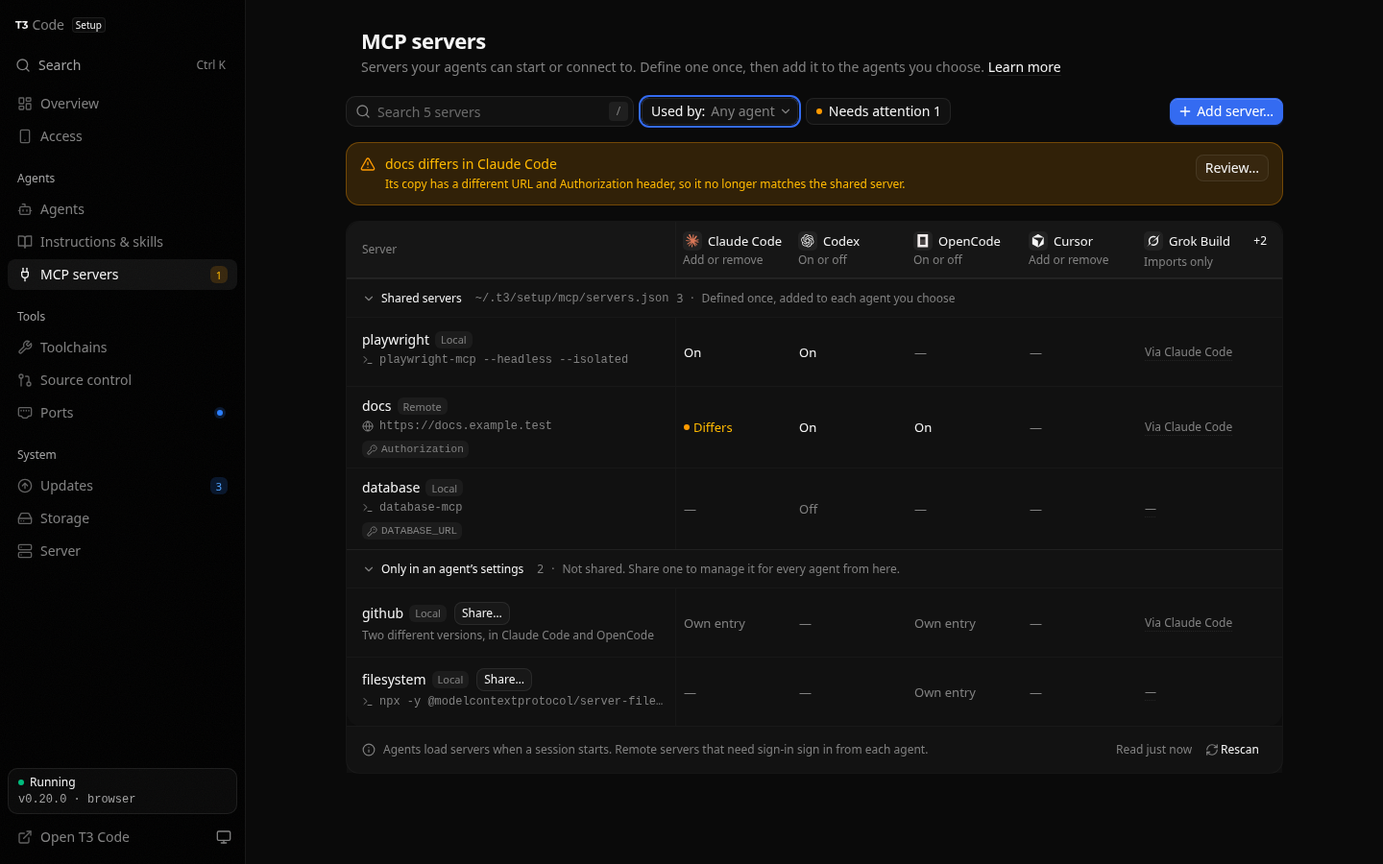
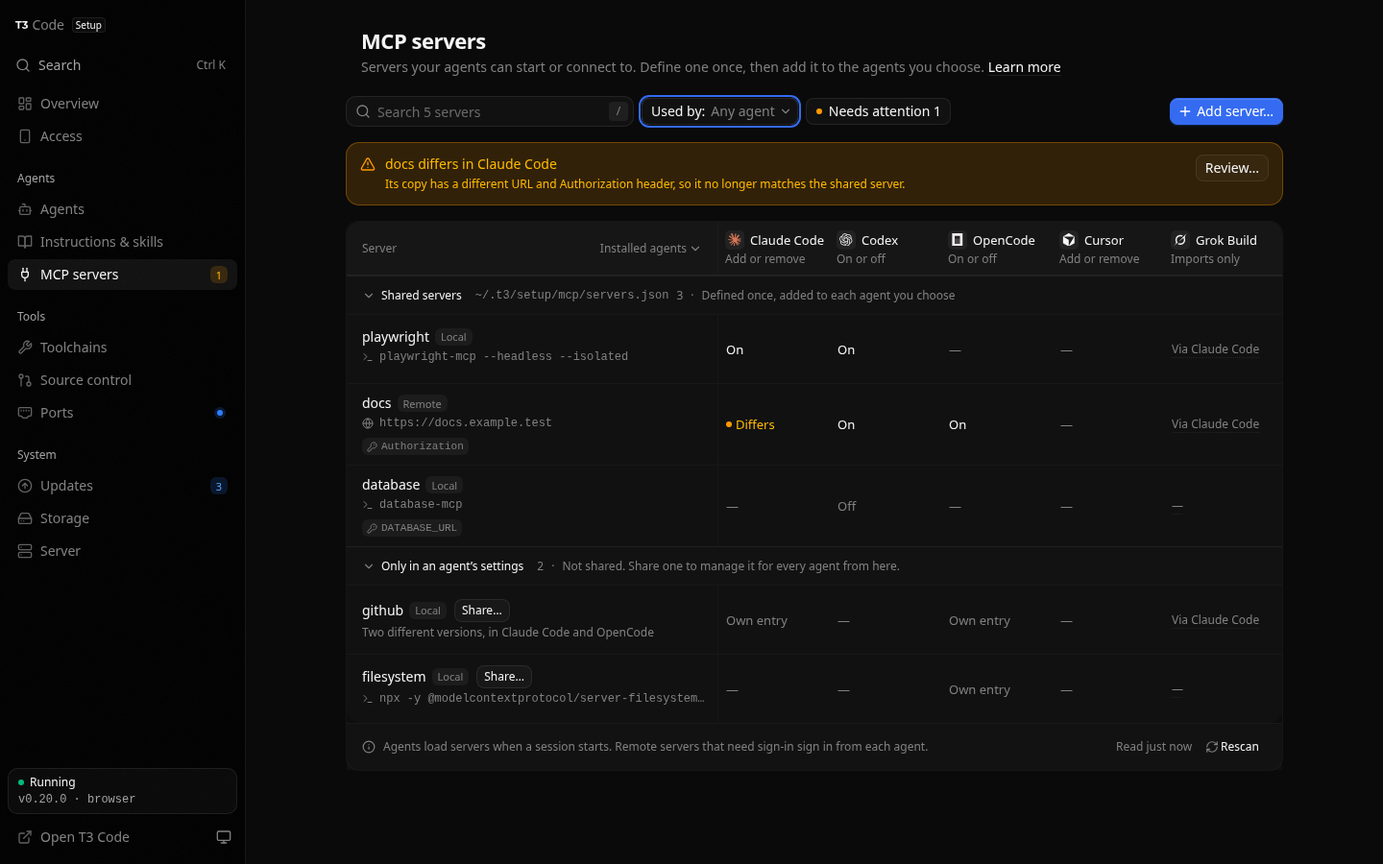
fix(mcp): align agent columns with Skills

diff --git a/docker/setup/client/mcp.js b/docker/setup/client/mcp.js
@@ -6,12 +6,13 @@ const T3McpUI = (() => {
   const disabled = value => value ? raw(' disabled') : '';
   const mark = id => html`<span class="tc-tile tc-tile--mark tc-tile--xs" aria-hidden="true">${raw(T3C.agentMark(id))}</span>`;
   const create = ({ api, getStatus, render }) => {
-    let data = null, query = '', agent = '', needsAttention = false, error = null, started = false, scanning = false, epoch = 0, scan = null, markup = null;
+    let data = null, query = '', agent = '', needsAttention = false, showAll = false, error = null, started = false, scanning = false, epoch = 0, scan = null, markup = null;
     const mutationErrors = new Map(), undos = new Map();
     const changing = new Map(), collapsed = new Set(), differences = new Map();
     const installed = () => S.providers.filter(p => getStatus()?.harnesses?.some(h => h.id === p.id && h.installed)).map(p => p.id);
     const managed = () => S.providers.filter(p => p.managed && installed().includes(p.id));
-    const columns = () => S.providers.filter(p => installed().includes(p.id) && (p.managed || p.id === 'grok' && data?.providers?.find(row => row.provider === 'grok')?.imports?.length));
+    const columns = () => S.columns(installed(), showAll);
+    const columnNote = provider => !provider.managed && provider.id !== 'grok' ? provider.control : installed().includes(provider.id) ? provider.control : 'Not installed';
     const rows = () => S.rows(data);
     const library = () => ({ data, installed: installed(), managed: managed(), changing, home: getStatus()?.paths?.volume });
     const pathLabel = value => T3SkillModel.displayPath(value || '', library().home);
@@ -95,6 +96,7 @@ const T3McpUI = (() => {
       const state = S.state(data, row, provider.id), busy = changing.has(provider.id), pending = changing.get(provider.id) === row.name;
       const label = row.name + ' in ' + provider.name + ': ' + state.label.toLowerCase();
       const key = 'mcp-cell-' + row.key + ':' + provider.id;
+      if (provider.managed && !installed().includes(provider.id)) return html`<span class="tc-cell tc-cell--unsupported" title="${provider.name} isn’t installed. Its saved settings stay unchanged." aria-label="${label}. Agent not installed; saved settings are read-only.">${state.label}</span>`;
       if (pending) return html`<span class="tc-cell" role="status"><span class="tc-spinner" aria-hidden="true"></span><span class="tc-sr">Saving ${row.name} in ${provider.name}</span></span>`;
       if (['via', 'own', 'error', 'unsupported'].includes(state.kind)) return html`<span class="tc-cell tc-cell--${state.kind}" title="${state.kind === 'via' ? 'Grok Build may import ' + S.nameOf(state.source || 'claude') + '’s servers. It isn’t managed here and doesn’t report what it loads.' : state.reason || ''}"><span>${state.label}</span></span>`;
       if (state.kind === 'none') return html`<button class="tc-cell tc-cell--none" type="button" data-key="${key}" data-cmd="${row.shared ? 'mcp.link' : 'mcp.share'}" data-provider="${provider.id}" data-id="${row.name}" aria-label="${row.shared ? 'Add' : 'Share'} ${row.name} ${row.shared ? 'to' : 'with'} ${provider.name}"${disabled(busy || !row.shared && !row.recognized || data.shared.error)}><span class="tc-cell-dash">—</span><span class="tc-cell-add">${icon('plus')}Add</span></button>`;
@@ -102,8 +104,8 @@ const T3McpUI = (() => {
     };
     const groupLabel = shared => shared ? 'Shared servers' : 'Only in an agent’s settings';
     const footer = () => html`<div class="tc-sk-library-foot"><span>${icon('info', 'tc-icon--sm')}Agents load servers when a session starts. Remote servers that need sign-in sign in from each agent.</span><span class="tc-sk-scan-time" title="${M.absTime(data?.scannedAt)}">${data?.scannedAt ? 'Read ' + M.relTime(data.scannedAt, Date.now()) : ''}</span><button class="tc-btn tc-btn--ghost tc-btn--xs" type="button" data-cmd="mcp.refresh"${disabled(scanning || changing.size)}>${scanning ? html`<span class="tc-spinner"></span>Scanning` : html`${icon('refresh-cw')}Rescan`}</button></div>`;
-    const table = filtered => html`<div class="tc-group tc-sk-table tc-mcp-table"><div class="tc-mx-scroll" tabindex="0" aria-label="MCP servers by agent"><div class="tc-mx" role="table" aria-label="MCP servers and agent settings" data-no-agents="${String(!columns().length)}" style="--mx-agent-count:${columns().length};--mx-main-count:${Math.max(0, columns().length - 1)}">
-      <div class="tc-mx-head" role="row"><div class="tc-mx-head-label" role="columnheader">Server</div>${columns().map((provider, index) => html`<div class="tc-mx-agent" role="columnheader" data-key="mcp-head-${provider.id}"><span class="tc-mx-agent-name">${mark(provider.id)}${provider.name}${data.providers.find(p => p.provider === provider.id)?.supported && data.providers.find(p => p.provider === provider.id)?.error ? html`<span class="tc-dot tc-dot--warn" aria-label="Settings unreadable"></span>` : ''}${index === columns().length - 1 ? html`<button class="tc-btn tc-btn--ghost tc-btn--xs tc-mcp-extra" type="button" data-key="mcp-extra" data-cmd="mcp.columns" aria-label="Other agents: Muse Code and Antigravity" title="Muse Code and Antigravity aren’t managed here yet" aria-haspopup="menu">+2</button>` : ''}</span><span class="tc-mx-agent-kind">${provider.control}</span></div>`)}</div>
+    const table = filtered => html`<div class="tc-group tc-sk-table tc-mcp-table"><div class="tc-mx-scroll" tabindex="0" aria-label="MCP servers by agent"><div class="tc-mx" role="table" aria-label="MCP servers and agent settings" data-no-agents="${String(!columns().length)}" style="--mx-agent-count:${columns().length}">
+      <div class="tc-mx-head" role="row"><div class="tc-mx-head-label" role="columnheader"><span>Server</span>${installed().length < S.providers.length ? html`<button class="tc-btn tc-btn--ghost tc-btn--xs tc-mx-columns" type="button" data-key="mcp-columns" data-cmd="mcp.columns" aria-haspopup="menu" aria-label="Agent columns: ${showAll ? 'all agents' : 'installed agents'}">${showAll ? 'All agents' : 'Installed agents'}${icon('chevron-down', 'tc-chev')}</button>` : ''}</div>${columns().map(provider => html`<div class="tc-mx-agent" role="columnheader" data-key="mcp-head-${provider.id}"${!installed().includes(provider.id) ? raw(' data-uninstalled') : ''}><span class="tc-mx-agent-name">${mark(provider.id)}${provider.name}${data.providers.find(p => p.provider === provider.id)?.supported && data.providers.find(p => p.provider === provider.id)?.error ? html`<span class="tc-dot tc-dot--warn" aria-label="Settings unreadable"></span>` : ''}</span><span class="tc-mx-agent-kind">${columnNote(provider)}</span></div>`)}</div>
       ${[true, false].map(shared => { const group = filtered.filter(row => row.shared === shared); if (!group.length) return ''; return html`<div role="rowgroup" data-key="mcp-group-${shared}"><div role="row"><div class="tc-mx-group" role="cell" aria-colspan="${columns().length + 1}"><button class="tc-mx-group-toggle" type="button" data-cmd="mcp.group" data-id="${String(shared)}" aria-expanded="${String(!collapsed.has(shared))}">${icon(collapsed.has(shared) ? 'chevron-right' : 'chevron-down')}${groupLabel(shared)}</button>${shared ? html`<code title="${data.shared.path || ''}">${pathLabel(data.shared.path || '~/.t3/setup/mcp/servers.json')}</code>` : ''}<span>${group.length}</span><span>·</span><span class="tc-mx-readers">${shared ? 'Defined once, added to each agent you choose' : 'Not shared. Share one to manage it for every agent from here.'}</span></div></div>
       ${collapsed.has(shared) ? '' : group.map(row => html`<div class="tc-mx-row" role="row" data-key="mcp-${row.key}"><div class="tc-mx-skill" role="cell"><div class="tc-mx-skill-copy"><div class="tc-mx-name"><button class="tc-skill-name" type="button" data-key="mcp-name-${row.key}" data-cmd="${shared ? 'mcp.view' : 'mcp.share'}" data-id="${row.name}"${disabled(!shared && (!row.recognized || data.shared.error))}>${row.name}</button>${row.type ? html`<span class="tc-badge">${row.type === 'remote' ? 'Remote' : 'Local'}</span>` : ''}${!shared ? html`<button class="tc-btn tc-btn--xs" type="button" data-cmd="mcp.share" data-id="${row.name}" title="${row.recognized ? 'Manage this server for your other agents' : 'This entry’s format isn’t supported here.'}"${disabled(!row.recognized || data.shared.error)}>Share…</button>` : ''}</div><div class="tc-mcp-detail${!row.shared && !row.identical ? ' tc-mcp-detail--prose' : ''}" title="${detail(row)}">${row.shared || row.identical ? icon(row.type === 'remote' ? 'globe' : 'terminal') : ''}<span>${detail(row) || 'Unsupported native entry'}</span></div>${row.shared || row.identical ? keyChips(row) : ''}</div></div>${columns().map(provider => html`<div class="tc-cellwrap" role="cell" data-key="mcp-${row.key}-${provider.id}">${cell(row, provider)}</div>`)}</div>`)}</div>`; })}
       </div></div>${footer()}</div>`;
@@ -114,7 +116,7 @@ const T3McpUI = (() => {
     const body = () => {
       const all = rows(), filtered = S.filter(data, { query, agent, attention: needsAttention, installed: installed() }), attention = S.attention(data, installed());
       return html`<div class="tc-sk-toolbar"><label class="tc-sk-search">${icon('search')}<input class="tc-input" id="mcp-search" data-key="mcp-search" value="${query}" type="search" placeholder="Search ${all.length} servers" aria-label="Search MCP servers"><kbd class="tc-kbd">/</kbd></label><div class="tc-sk-desktop-filters"><button class="tc-btn tc-btn--sm" type="button" data-cmd="mcp.agent" aria-haspopup="menu">Used by: <span class="tc-btn-value">${agent ? S.nameOf(agent) : 'Any agent'}</span>${icon('chevron-down', 'tc-chev')}</button>${attention.length ? html`<button class="tc-btn tc-btn--sm" type="button" data-cmd="mcp.attention" aria-pressed="${String(needsAttention)}"><span class="tc-dot tc-dot--warn"></span>Needs attention ${attention.length}</button>` : ''}</div><span class="tc-spacer"></span><div class="tc-sk-desktop-actions"><button class="tc-btn tc-btn--primary tc-btn--sm" type="button" data-cmd="mcp.add"${disabled(data?.shared?.error || changing.size)}>${icon('plus')}Add server…</button></div></div>
-      <div class="tc-sk-agent-chips" aria-label="Filter by agent"><button class="tc-chip-btn" type="button" data-cmd="mcp.filter" aria-pressed="${String(!agent)}">All <span>${all.length}</span></button>${columns().filter(p => p.managed).map(p => html`<button class="tc-chip-btn" type="button" data-cmd="mcp.filter" data-provider="${p.id}" aria-pressed="${String(agent === p.id)}">${mark(p.id)}${p.name}<span>${all.filter(row => S.has(data?.providers?.find(a => a.provider === p.id), row.name)).length}</span></button>`)}</div>
+      <div class="tc-sk-agent-chips" aria-label="Filter by agent"><button class="tc-chip-btn" type="button" data-cmd="mcp.filter" aria-pressed="${String(!agent)}">All <span>${all.length}</span></button>${managed().map(p => html`<button class="tc-chip-btn" type="button" data-cmd="mcp.filter" data-provider="${p.id}" aria-pressed="${String(agent === p.id)}">${mark(p.id)}${p.name}<span>${all.filter(row => S.has(data?.providers?.find(a => a.provider === p.id), row.name)).length}</span></button>`)}</div>
       ${error ? html`<div class="tc-notice tc-notice--danger" role="alert">${icon('circle-alert')}<div class="tc-notice-body"><strong class="tc-notice-title">Couldn’t read MCP servers</strong><span class="tc-notice-desc">${error}${data ? ' · Showing the last successful read.' : ''}</span></div><button class="tc-btn tc-btn--sm" type="button" data-cmd="mcp.refresh"${disabled(scanning)}>Try again</button></div>` : ''}
       ${data?.shared?.error ? html`<div class="tc-notice tc-notice--danger" role="alert">${icon('circle-alert')}<div class="tc-notice-body"><strong class="tc-notice-title">Shared servers unavailable</strong><span class="tc-notice-desc">${data.shared.error}${data.shared.path ? html` <code>${pathLabel(data.shared.path)}</code>` : ''}</span></div></div>` : ''}
       ${attention.length ? html`<button class="tc-sk-phone-notice tc-mcp-phone-attention" type="button" data-cmd="${attention[0].kind === 'differs' ? 'mcp.view' : 'mcp.refresh'}" data-id="${attention[0].name || ''}" data-provider="${attention[0].provider}"${disabled(scanning)}>${icon('triangle-alert')}<span><strong>${attention[0].kind === 'differs' ? attention[0].name + ' differs in ' + S.nameOf(attention[0].provider) : 'Couldn’t read ' + S.nameOf(attention[0].provider) + '’s settings'}</strong><span>${attention[0].kind === 'differs' ? 'Review it to update or keep that copy.' : 'Rescan to try again.'}${attention.length > 1 ? ' · ' + (attention.length - 1) + ' more need attention' : ''}</span></span>${scanning ? html`<span class="tc-spinner"></span>` : icon('chevron-right')}</button>` : ''}
@@ -157,8 +159,19 @@ const T3McpUI = (() => {
       focusSearch: () => document.getElementById('mcp-search')?.focus(),
       filterAgent: id => { agent = id; if (!id) { query = ''; needsAttention = false; } paint(); const field = document.getElementById('mcp-search'); if (field) field.value = query; },
       attention: () => { needsAttention = !needsAttention; paint(); }, group: id => { const key = id === 'true'; if (collapsed.has(key)) collapsed.delete(key); else collapsed.add(key); paint(); },
-      agentMenu: trigger => Kit.menu(trigger, { label: 'Used by', items: [{ label: 'Any agent', radio: true, checked: !agent, run: () => { agent = ''; paint(); } }, ...columns().filter(p => p.managed).map(p => ({ label: p.name, radio: true, checked: agent === p.id, run: () => { agent = p.id; paint(); } }))] }),
-      columnsMenu: trigger => Kit.menu(trigger, { label: 'Other agents', head: { title: 'Not managed here yet' }, items: ['muse', 'antigravity'].map(id => ({ label: S.nameOf(id), description: data?.providers?.find(p => p.provider === id)?.error || 'Native settings aren’t integrated yet.', disabled: true })), footer: 'These agents’ settings stay unchanged.' }),
+      agentMenu: trigger => Kit.menu(trigger, { label: 'Used by', items: [{ label: 'Any agent', radio: true, checked: !agent, run: () => { agent = ''; paint(); } }, ...managed().map(p => ({ label: p.name, radio: true, checked: agent === p.id, run: () => { agent = p.id; paint(); } }))] }),
+      columnsMenu: trigger => {
+        const choose = value => {
+          if (showAll === value) return;
+          showAll = value; paint();
+          const scroll = document.querySelector('.tc-mcp-table .tc-mx-scroll'); if (scroll) scroll.scrollLeft = 0;
+          Kit.announce('Showing ' + (showAll ? 'all agents' : 'installed agents') + ' in the MCP table.');
+        };
+        Kit.menu(trigger, { label: 'Agent columns', items: [
+          { label: 'Installed agents', description: M.plural(installed().length, 'agent') + ' installed on this server.', radio: true, checked: !showAll, run: () => choose(false) },
+          { label: 'All agents', description: 'Also show ' + M.listOf(S.providers.filter(provider => !installed().includes(provider.id)).map(provider => provider.name)) + '.', radio: true, checked: showAll, run: () => choose(true) },
+        ], footer: 'Grok Build imports only. Muse Code and Antigravity aren’t managed here yet.' });
+      },
     };
   };
   return { create };

diff --git a/scripts/mcp-ui-audit.js b/scripts/mcp-ui-audit.js
@@ -17,9 +17,9 @@ const deferred = () => { let resolve; const promise = new Promise(r => { resolve
       const embedded = variant.startsWith('embedded'), phone = variant === 'phone' || variant === 'embedded-phone', viewport = phone ? { width: 390, height: 844 } : variant === 'embedded' ? { width: 1198, height: 878 } : { width: 1440, height: 900 };
       const context = await browser.newContext({ viewport, colorScheme: theme, reducedMotion: 'reduce' });
       const page = await context.newPage(), mcp = createMcpFixtures(), errors = [], calls = [];
-      let failRead = false, failRemoval = false, linkGate = null, readGate = null, parseGate = null, createGate = null, conflictLink = false, conflictSave = false, unreadableStore = false;
+      let failRead = false, failRemoval = false, linkGate = null, readGate = null, parseGate = null, createGate = null, conflictLink = false, conflictSave = false, unreadableStore = false, installedOverride = null;
       page.on('pageerror', error => errors.push(error.message));
-      const status = () => { const s = statusFor('skills'); s.context.mcp = mcp.status(); return s; };
+      const status = () => { const s = statusFor('skills'); if (installedOverride) for (const agent of s.harnesses) agent.installed = installedOverride.includes(agent.id); s.context.mcp = mcp.status(); return s; };
       await routeConsole(page, { status, ports: () => portsFor('ready') });
       await page.route('**/*', async route => {
         const req = route.request(), url = new URL(req.url());
@@ -66,10 +66,44 @@ const deferred = () => { let resolve; const promise = new Promise(r => { resolve
         assert.equal(await target.locator('.tc-tabbar').isVisible(), false);
       } else {
         assert.equal(await target.locator('.tc-mcp-table [role="columnheader"]').count(), 6);
-        await target.locator('[data-cmd="mcp.columns"]').click();
-        await screenshot('other-agents');
-        assert.match(await target.getByRole('menu').innerText(), /Muse Code/);
+        const columnButton = target.locator('[data-cmd="mcp.columns"]');
+        assert.equal(await target.locator('.tc-mcp-extra').count(), 0, 'No trailing +2 control');
+        await columnButton.click();
+        assert.equal(await target.getByRole('menuitemradio', { name: /^Installed agents/ }).getAttribute('aria-checked'), 'true');
         await page.keyboard.press('Escape');
+        assert.equal(await columnButton.evaluate(element => element === document.activeElement), true, 'Column menu restores keyboard focus');
+        await columnButton.click();
+        await target.getByRole('menuitemradio', { name: /^All agents/ }).click();
+        await target.waitForFunction(() => document.querySelectorAll('.tc-mcp-table [role="columnheader"]').length === 8);
+        assert.equal(await columnButton.innerText(), 'All agents');
+        assert.equal(await target.locator('.tc-mcp-table .tc-mx-agent[data-uninstalled]').count(), 2);
+        assert.equal(await target.locator('.tc-mcp-table .tc-mx-agent').filter({ hasText: 'Not managed here' }).count(), 2);
+        const containment = await target.locator('.tc-mcp-table .tc-mx').evaluate(table => {
+          const right = table.getBoundingClientRect().right;
+          return { overflow: table.scrollWidth - table.clientWidth, rows: [...table.querySelectorAll('.tc-mx-head,.tc-mx-row')].map(row => ({ right: row.getBoundingClientRect().right, cells: row.children.length, last: row.lastElementChild.getBoundingClientRect().right })), right };
+        });
+        assert.ok(containment.overflow <= 1, 'Expanded columns fit their table background');
+        assert.ok(containment.rows.every(row => row.cells === 8 && Math.abs(row.right - containment.right) < 1 && Math.abs(row.right - row.last - 8) < 1), 'Every header and row uses eight columns with the same end inset');
+        const sticky = await target.locator('.tc-mcp-table .tc-mx-scroll').evaluate(scroll => {
+          scroll.scrollLeft = scroll.scrollWidth - scroll.clientWidth;
+          const left = scroll.getBoundingClientRect().left, header = scroll.querySelector('.tc-mx-head'), label = scroll.querySelector('.tc-mx-head-label'), group = scroll.querySelector('.tc-mx-group').getBoundingClientRect();
+          return { first: scroll.querySelector('.tc-mx-skill').getBoundingClientRect().left - left, button: scroll.querySelector('[data-cmd="mcp.columns"]').getBoundingClientRect().left - left, width: scroll.clientWidth, headerCover: header.getBoundingClientRect().height - label.getBoundingClientRect().height, groupLeft: group.left - left, groupWidth: group.width };
+        });
+        assert.ok(Math.abs(sticky.first) < 1 && sticky.button >= 0 && sticky.button < sticky.width, 'Names and column selector stay visible at the far scroll edge');
+        assert.ok(sticky.headerCover <= 1 && Math.abs(sticky.groupLeft) < 1 && Math.abs(sticky.groupWidth - sticky.width) < 1, 'Pinned headings cover scrolling text and keep group context in view');
+        await screenshot('all-agent-columns');
+        const firstPolicy = target.locator('.tc-mcp-table .tc-mx-row .tc-cellwrap button').first();
+        await firstPolicy.focus();
+        assert.ok(await firstPolicy.evaluate(button => button.getBoundingClientRect().left >= button.closest('.tc-mx-row').querySelector('.tc-mx-skill').getBoundingClientRect().right - 1), 'Focused controls scroll clear of the pinned server column');
+        await columnButton.click();
+        assert.equal(await target.getByRole('menuitemradio', { name: /^All agents/ }).getAttribute('aria-checked'), 'true');
+        await screenshot('agent-columns-menu');
+        assert.match(await target.getByRole('menu').innerText(), /Muse Code/);
+        await target.getByRole('menuitemradio', { name: /^Installed agents/ }).click();
+        await target.waitForFunction(() => document.querySelectorAll('.tc-mcp-table [role="columnheader"]').length === 6);
+        assert.equal(await target.locator('.tc-mcp-table .tc-mx-scroll').evaluate(scroll => scroll.scrollLeft), 0);
+        assert.equal(await columnButton.evaluate(element => element === document.activeElement), true, 'Visibility choice restores focus');
+        assert.equal(calls.length, 0, 'Column visibility never writes settings');
         // The selected menu survives an unrelated /status refresh.
         await target.getByRole('button', { name: 'docs in Codex: on', exact: true }).click();
         await target.evaluate(() => document.dispatchEvent(new Event('visibilitychange')));
@@ -219,6 +253,28 @@ const deferred = () => { let resolve; const promise = new Promise(r => { resolve
         await page.evaluate(() => { window.mcpMessages = []; window.addEventListener('message', event => window.mcpMessages.push(event.data)); });
         await target.getByRole('button', { name: 'Close setup', exact: true }).click();
         await page.waitForFunction(() => window.mcpMessages.some(message => message?.source === 't3-setup' && message.type === 'close'));
+      }
+      if (variant === 'desktop' && theme === 'light') {
+        unreadableStore = false;
+        const reload = async ids => {
+          installedOverride = ids;
+          await target.evaluate(() => location.reload());
+          await target.locator('.tc-mcp-table .tc-mx-row').first().waitFor();
+          await target.waitForFunction(count => document.querySelectorAll('.tc-mcp-table .tc-mx-agent').length === count, ids.length);
+        };
+        await reload(['claude', 'codex', 'opencode', 'grok']);
+        await target.locator('[data-cmd="mcp.columns"]').click();
+        await target.getByRole('menuitemradio', { name: /^All agents/ }).click();
+        const cursor = target.locator('[data-key="mcp-shared:issues-cursor"]');
+        assert.equal(await cursor.locator('button').count(), 0, 'An uninstalled managed agent has no mutation control');
+        assert.equal(await cursor.innerText(), 'On', 'Its saved state stays visible');
+        await reload([]);
+        await target.locator('[data-cmd="mcp.columns"]').click();
+        await target.getByRole('menuitemradio', { name: /^All agents/ }).click();
+        assert.equal(await target.locator('.tc-mcp-table .tc-cellwrap button').count(), 0, 'Zero installed agents cannot mutate native settings');
+        await reload(['claude', 'codex', 'opencode', 'cursor', 'grok', 'muse', 'antigravity']);
+        assert.equal(await target.locator('[data-cmd="mcp.columns"]').count(), 0, 'No redundant choice when all agents are installed');
+        assert.equal(await target.locator('[data-key="mcp-shared:issues-muse"] button').count(), 0, 'Installing an unsupported agent does not enable management');
       }
       await noOverflow(); assert.deepEqual(errors, [], 'No browser exceptions');
       console.log(`${variant} ${theme}: matrix, secrets, per-agent off, draft/poll guards, snippet, consent, partial removal, failed/late reads passed`);

diff --git a/docker/setup/console.css b/docker/setup/console.css
@@ -1443,10 +1443,7 @@ html.tc-locked { overflow: hidden; }
 .tc-mcp-library .tc-sk-toolbar { margin-top: 0; }
 .tc-mcp-library .tc-sk-desktop-filters { display: flex; align-items: center; gap: var(--space-2); }
 .tc-mcp-table .tc-mx-head { position: relative; }
-.tc-mcp-extra { margin-left: auto; margin-right: 0; flex: none; }
-.tc-mcp-table .tc-mx-agent:last-child { padding-right: 0; }
 .tc-mcp-table .tc-mx-agent-name { min-width: 0; }
-.tc-mcp-table .tc-mx-agent:has(.tc-mcp-extra) { min-width: 0; }
 .tc-mcp-table .tc-mx-agent-name .tc-tile { width: 20px; height: 20px; }
 .tc-mcp-table .tc-key { max-width: 100%; overflow: hidden; text-overflow: ellipsis; }
 .tc-mcp-loading, .tc-mcp-diff-loading { display: flex; align-items: center; gap: var(--space-2); padding: var(--space-4); color: var(--fg-muted); font-size: 13px; }
@@ -1530,9 +1527,6 @@ html.tc-locked { overflow: hidden; }
 }
 .tc-mcp-editor .tc-mcp-secret-input { white-space: pre; scrollbar-width: none; }
 .tc-mcp-editor textarea.tc-mcp-secret-input { height: auto; min-height: 56px; }
-/* The last header contains the compact unsupported-agent menu, within its
-   own agent track. It never adds an empty column through every server row. */
-.tc-mcp-table .tc-mx { --mx-cols: minmax(240px, 1fr) repeat(var(--mx-main-count, 4), 120px) 144px; min-width: calc(240px + var(--mx-main-count, 4) * 120px + 144px + 24px); }
 .tc-mcp-table .tc-mx[data-no-agents="true"] { --mx-cols: minmax(0, 1fr); min-width: 0; }
 @media (max-width: 1023.98px) {
   .tc-mcp-library .tc-sk-agent-chips { margin-right: 0; padding-right: 0; scrollbar-width: none; }

diff --git a/docker/setup/client/mcp-model.js b/docker/setup/client/mcp-model.js
@@ -11,6 +11,7 @@ const T3McpModel = (() => {
     { id: 'muse', name: 'Muse Code', control: 'Not managed here' },
     { id: 'antigravity', name: 'Antigravity', control: 'Not managed here' },
   ];
+  const columns = (installed, all = false) => providers.filter(provider => all || installed.includes(provider.id));
   const normalize = value => Array.isArray(value) ? value.map(normalize) : value && typeof value === 'object'
     ? Object.fromEntries(Object.keys(value).sort().map(key => [key, normalize(value[key])])) : value;
   const sameValue = (a, b) => JSON.stringify(normalize(a)) === JSON.stringify(normalize(b));
@@ -60,5 +61,5 @@ const T3McpModel = (() => {
     if (diff.extraOptions?.length) fields.push('agent-specific options');
     return fields.length ? 'Its copy has a different ' + (fields.length < 2 ? fields.join('') : fields.slice(0, -1).join(', ') + ' and ' + fields.at(-1)) + ', so it no longer matches the shared server.' : 'Its copy no longer matches the shared server.';
   };
-  return { providers, nameOf, state, rows, attention, filter, used, has, fieldLabel, describeDiff, sameValue, sameDefinition };
+  return { providers, columns, nameOf, state, rows, attention, filter, used, has, fieldLabel, describeDiff, sameValue, sameDefinition };
 })();

diff --git a/docs/mcp-servers.md b/docs/mcp-servers.md
@@ -30,6 +30,12 @@ These states describe configuration, not connectivity. Unreadable settings get
 an attention notice and disable that agent’s controls. While a change saves, its
 cell shows progress and that agent’s column is disabled; other agents remain usable.
 
+The **Installed agents / All agents** menu beside **Server** controls the matrix
+columns, as it does in Skills. It stays visible when the table scrolls sideways.
+All agents also shows uninstalled agents; their saved entries are read-only.
+Muse Code and Antigravity show **Not managed here**, and Grok remains imports only.
+Changing the visible columns never adds a server or changes native settings.
+
 Claude Code and Cursor have Add/Remove here. Codex and OpenCode also support
 On/Off. Claude’s per-project toggles are outside Setup’s inventory. A legacy
 shared `enabled: false` value is still readable and makes new Codex/OpenCode
